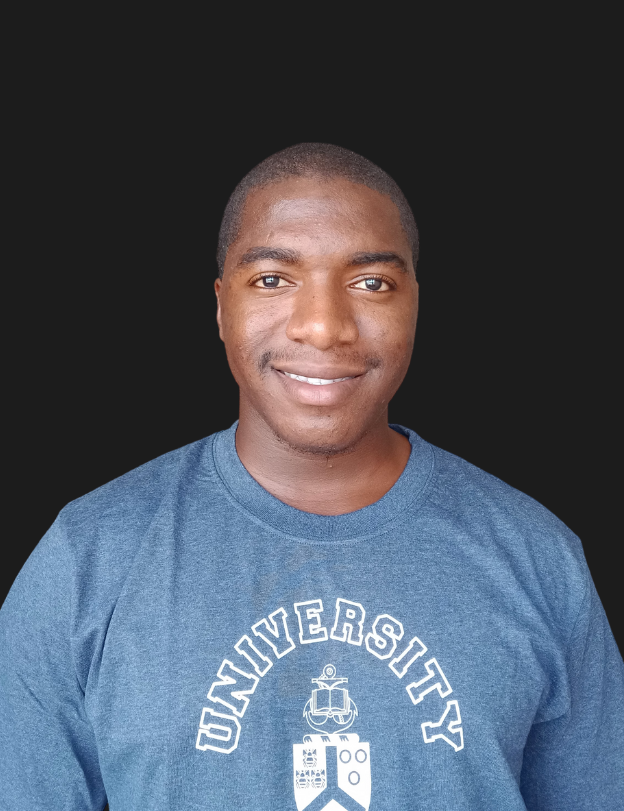
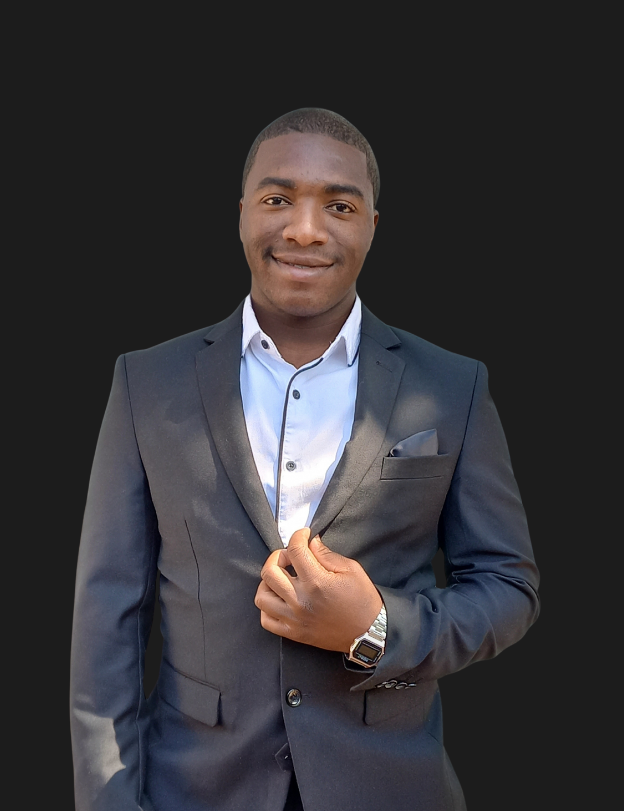
saving my work

diff --git a/style.css b/style.css
@@ -13,7 +13,7 @@ body {
 #header {
   width: 100%;
   height: 100vh;
-  background-image: url(Images/background.png);
+  background-image: url(Images/background\ 2.png);
   background-size: cover;
   background-position: center;
 }
@@ -30,7 +30,7 @@ nav {
 }
 
 .logo {
-  width: 240px;
+  width: 180px;
 }
 
 nav ul li {
@@ -100,6 +100,10 @@ nav ul li a:hover::after {
   flex-basis: 60%;
 }
 
+.about-col-2 p {
+    text-align: justify;
+}
+
 .sub-title {
   font-size: 50px;
   font-weight: 600;
@@ -137,6 +141,7 @@ nav ul li a:hover::after {
 .tap-contents p {
   list-style: none;
   margin: 10px 0;
+  text-align: justify;
 }
 
 .tap-contents ul li {

diff --git a/index.html b/index.html
@@ -88,7 +88,7 @@
                 </li>
                 <li>
                   <span>2020 - 2022</span><br />Bachelor's of Administration
-                  (University of Preroria)
+                  (University of Pretoria)
                 </li>
               </ul>
             </div>
@@ -98,7 +98,7 @@
     </div>
 
     <!-------------------services------------------>
-    
+
 
     <script>
       var tablinks = document.getElementsByClassName("tab-links");
